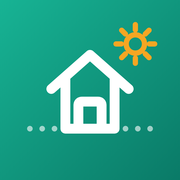
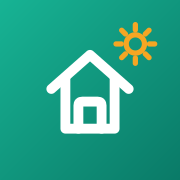
v.33: ikonen utan prickarna längs marklinjen
Claude-Session: https://claude.ai/code/session_01Urd24wgtgwurSbUgEsmrCP

diff --git a/index.html b/index.html
@@ -7,14 +7,14 @@
 <meta name="description" content="Belysning, temperatur, energi och städning från Homey Pro.">
 <meta name="theme-color" content="#EEF1F6" media="(prefers-color-scheme: light)">
 <meta name="theme-color" content="#0E141C" media="(prefers-color-scheme: dark)">
-<meta name="app-version" content="2026-11-14.32">
+<meta name="app-version" content="2026-11-14.33">
 <meta name="apple-mobile-web-app-capable" content="yes">
 <meta name="mobile-web-app-capable" content="yes">
 <meta name="apple-mobile-web-app-status-bar-style" content="default">
 <meta name="apple-mobile-web-app-title" content="Hem Vinäs">
 <link rel="manifest" href="manifest.webmanifest">
-<link rel="icon" href="icon.svg?v=5" type="image/svg+xml">
-<link rel="apple-touch-icon" href="icon-180.png?v=5">
+<link rel="icon" href="icon.svg?v=6" type="image/svg+xml">
+<link rel="apple-touch-icon" href="icon-180.png?v=6">
 <link rel="preconnect" href="https://fonts.googleapis.com">
 <link rel="stylesheet" href="https://fonts.googleapis.com/css2?family=Manrope:wght@400;500;600;700;800&display=swap">
 <style>
@@ -673,8 +673,8 @@ body.noscroll{overflow:hidden}
 <div class="toast" id="toast" role="status" aria-live="polite" hidden></div>
 
 
-<script src="config.js?v=2026-11-14.32"></script>
-<script src="homey.js?v=2026-11-14.32"></script>
+<script src="config.js?v=2026-11-14.33"></script>
+<script src="homey.js?v=2026-11-14.33"></script>
 <script>
 (() => {
   const S = 'Homey';

diff --git a/CLAUDE.md b/CLAUDE.md
@@ -12,7 +12,7 @@ Det här repot är **huvudversionen** av Hem Vinäs-appen. Alla ändringar görs
 - **Ny design (2026-11-14.13):** omklädning enligt överlämningen (designsystem med CSS-variabler, flikraden nere, gemensam bladkomponent `sheetOpen`/`sheetClose`, Mer-lista i Energi, ihopfällda detaljer i blad). Ändrade bara presentation: alla gamla funktioner och element-id:n finns kvar (kontrollerat mot en baslinje). Flikarna heter Ljus och Klimat i texten men `data-v`, id:n och `#belysning`/`#temperatur` är oförändrade; `#ljus`/`#klimat` fungerar som alias. Testades inte mot riktig Homey-data före publicering. Äldre version finns i git (2026-11-14.12). **2026-11-14.20:** Ute-kortets etikett är Dag/Skymning/Gryning/Natt efter lux (`LUX_DAG` 400, `LUX_NATT` 3; gryning eller skymning efter om solen är på väg upp eller ner, `sunAlt`), inte AI Skumt ute (bara reserv om lux saknas). Belysningsflikens chip och flödena AI 0/4 använder fortfarande AI Skumt ute/inne. **2026-11-14.14–.16:** robotkorten (.14), energiflödets nodlägen (.15) och glapplistan mot förslaget (.16): kompakt bergvärmerad, lägesväljare Av/Värme/Kyla/Auto + "Fler lägen", golvvärme och Badrum som en rad (på/av ligger i bladet som öppnas via namnet, `zoneRow`/`zvOpen`), Ute-kortet med en etikett + Garage-givaren (Strålkastare), Städ utan versalrad och med taggar, Senaste städning i tre kolumner, Elpris-kortet i förslagets ordning (Idag/Imorgon sist), Idag-kortet med minikort, kostnad utan minustecken, scenerna överst i Ljus. Raden/bladet "Apparater" heter sedan 2026-11-14.21 **Vitvaror** (kylskåp, disk, tvätt; `data-more="app"`, id `mvApp` oförändrade). Luftvärmepumpens "Fler lägen" (Fläkt, Avfukta) är borttagna sedan .22 – Ulf använder dem aldrig; läget styrs bara med Av/Värme/Kyla/Auto. **Ljusrutan (2026-11-14.24):** överst på fliken Ljus (`#lightHero`, `renderLightHero`): SMHI-symbol + text för innevarande timme, Dag/Skymning/Gryning/Natt efter lux och luxvärdet. Lux och ljusläge visas inte längre i Ute-kortet under Klimat, och chippet Mörkt ute/Skumt inne/Ljust ute på Ljus är borttaget. Fliken heter kvar Ljus (täcker både lampor och dagsljus). Städa rum har inget flerval (ett tryck startar rummet direkt, `clean_room_pick`), så ingen kantknapp och ingen aktiv scen finns – båda saknar data/funktion.
 - `homey.js` – Homey Web API-klient: OAuth via Workern, delegationstoken, session mot Homey Pro (lokalt först, annars moln), enheter, zoner, variabler, moods.
 - `homey/` – kopior av HomeyScript-koden i flödena AI 7, AI 11, AI 13, AI 14, AI 15, AI 16, AI 17 och AI 18 (källan som körs ligger i Homey; uppdatera kopian när flödet ändras).
-- Ikon (2026-11-11.1, användarens egen design): grön diagonal gradient #17B394 → #0A7A67, vitt hus i linjestil med rundad dörr, orange sol (#F5A623) uppe till höger, vita prickar längs marklinjen. Ersatte den röda ikonen (#D6001C, 2026-11-09.6). Filerna kom färdiga från användaren (zip): `icon.svg`, `icon-180.png` (= apple-touch-icon), `icon-192/512.png`, alla kvadratiska utan rundning eftersom iOS rundar själv. Cache-nyckeln `?v=` på ikonerna i index.html och manifest höjs vid ikonbyte (nu 5). iOS cachar hemskärmsikonen – ta bort och lägg till appen igen för att se ny ikon.
+- Ikon (2026-11-11.1, användarens egen design): grön diagonal gradient #17B394 → #0A7A67, vitt hus i linjestil med rundad dörr, orange sol (#F5A623) uppe till höger, vita prickar längs marklinjen. Ersatte den röda ikonen (#D6001C, 2026-11-09.6). Filerna kom färdiga från användaren (zip): `icon.svg`, `icon-180.png` (= apple-touch-icon), `icon-192/512.png`, alla kvadratiska utan rundning eftersom iOS rundar själv. Cache-nyckeln `?v=` på ikonerna i index.html och manifest höjs vid ikonbyte (nu 6; sedan 2026-11-14.33 utan prickarna längs marklinjen – användaren tyckte de störde). iOS cachar hemskärmsikonen – ta bort och lägg till appen igen för att se ny ikon.
 - `config.js` – Client ID, Worker-adress, Redirect URL. Inga hemligheter.
 - `worker/worker.js` – Cloudflare Worker `hem-vinas-auth` (https://hem-vinas-auth.uffes-mora.workers.dev). Ändringar här måste klistras in manuellt i Cloudflare (Edit code → Deploy) av användaren.
 
